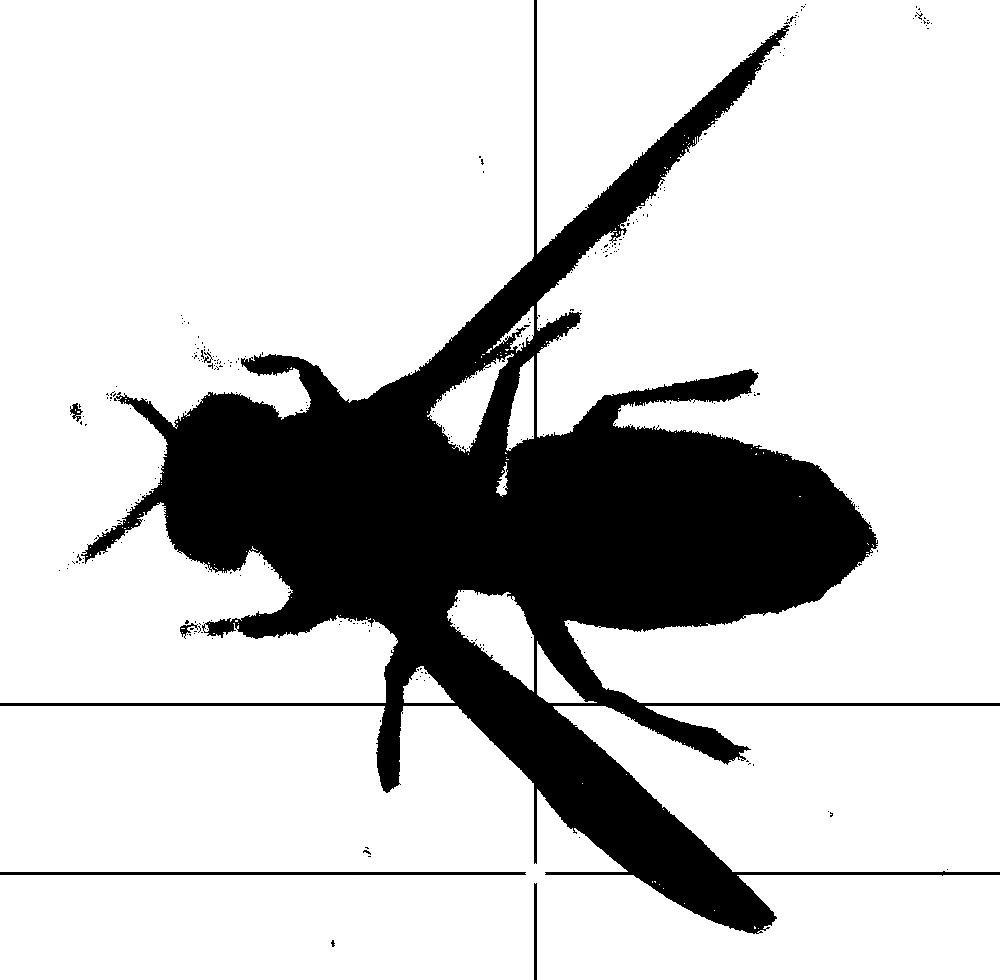
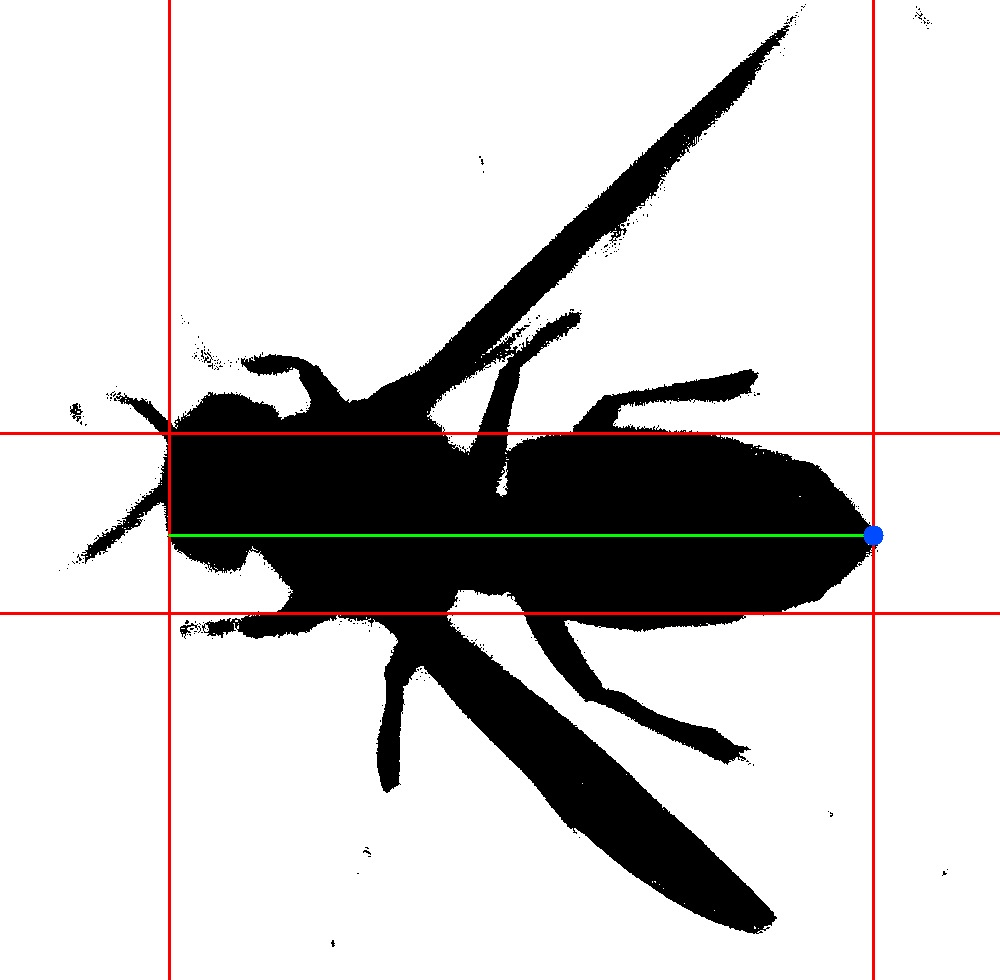
ResultCutOut fonctionnel et eventuelle resultats(bounding lines et longeur du frelon) affiches sur les images

Changed region(s): [[0.0, 0.0, 1.0, 1.0]]

diff --git a/Caracteristics/HornetLength.java b/Caracteristics/HornetLength.java
@@ -21,7 +21,7 @@ public class HornetLength {
     }
 
 
-    public static int[] boundingLines(Mat arrayImage) {
+   /* public static int[] boundingLines(Mat arrayImage) {
         // Récupération du nombre de lignes et de colonnes de la matrice de l'image binaire du frelon
         int numberOfLines = arrayImage.rows();
         int numberOfColumns = arrayImage.cols();
@@ -79,7 +79,56 @@ public class HornetLength {
 
         // Return the values
         return new int[]{upperLine, lowerLine, leftLine, upperLine, lowerLine, leftLine};
-    }
+    }*/
+   public static int[] boundingLines(Mat arrayImage) {
+       // Récupération du nombre de lignes et de colonnes de la matrice de l'image binaire du frelon
+       int numberOfLines = arrayImage.rows();
+       int numberOfColumns = arrayImage.cols();
+
+       System.out.println("Number of lines: " + numberOfLines);
+
+       // Recherche le la ligne inférieure de la zone d'analyse
+       int counter = numberOfLines;
+       int pixelCount = 0;
+
+       double horizontalNumber = numberOfColumns * 0.4;
+       while (pixelCount < horizontalNumber && counter > 0) {
+           pixelCount = zeroPixels(arrayImage.row(counter - 1));
+           counter--;
+       }
+
+       int lowerLine = counter;
+
+       // Recherche le la ligne supérieure de la zone d'analyse
+       counter = 0;
+       pixelCount = 0;
+
+       while (pixelCount < horizontalNumber && counter < numberOfLines) {
+           pixelCount = zeroPixels(arrayImage.row(counter));
+           counter++;
+       }
+
+       int upperLine = counter;
+
+       // Recherche de la colonne gauche de la zone d'analyse
+       counter = 0;
+       pixelCount = 0;
+
+       double verticalNumber = numberOfLines * 0.1;
+       while (pixelCount < verticalNumber && counter < numberOfColumns) {
+           pixelCount = zeroPixels(arrayImage.col(counter));
+           counter++;
+       }
+
+       int leftLine = counter;
+
+       System.out.println("Upper line: " + upperLine);
+       System.out.println("Lower line: " + lowerLine);
+       System.out.println("Left line: " + leftLine);
+
+       // Return the values
+       return new int[]{upperLine, lowerLine, leftLine};
+   }
 
 
     public static int[] calculer_HornetLength(Mat picture) {
@@ -143,43 +192,61 @@ public class HornetLength {
 
         return new int[]{lengthValue, stingCoordinates[0], stingCoordinates[1]};
     }
-    public static int resultPlot(Mat picture, int lowerLine, int upperLine, int leftLine, int indexMax, int pixelCount,
-                                 int numberOfLines, int numberOfColumns, String pictureFile) {
+
+    public static int resultPlot(Mat picture, String imagePath) {
+        // Assuming you have an input image (replace "your_image_path" with the actual path)
+        Mat inputImage = Imgcodecs.imread(imagePath);
+
+        // calcluler les bounding lines
+        int[] lines = boundingLines(inputImage);
+        int upperLine = lines[0];
+        int lowerLine = lines[1];
+        int leftLine = lines[2];
+
+        // Calculer la longeur de frelon
+        int[] lengthInfo = calculer_HornetLength(inputImage);
+        int lengthValue = lengthInfo[0];
+        int stingX = lengthInfo[1];
+        int stingY = lengthInfo[2];
+
+        int numberOfLines = picture.rows();
+        int numberOfColumns = picture.cols();
 
         // Convertir l'image en niveaux de gris
-       // Imgproc.cvtColor(picture, picture, Imgproc.COLOR_BGR2GRAY);
+        // Imgproc.cvtColor(picture, picture, Imgproc.COLOR_BGR2GRAY);
+        Mat colorPicture = new Mat();
         // Convertir l'image en niveaux de gris si elle n'est pas déjà en niveaux de gris
-        if (picture.channels() > 1) {
-            Imgproc.cvtColor(picture, picture, Imgproc.COLOR_BGR2GRAY);
-        }
+        // if (picture.channels() > 1) {
+        Imgproc.cvtColor(picture, colorPicture, Imgproc.COLOR_GRAY2BGR);
+        // }
 
         // Ligne inférieure
-        Imgproc.line(picture, new Point(0, lowerLine), new Point(numberOfColumns, lowerLine), new Scalar(0, 0, 255), 2);
+        Imgproc.line(colorPicture, new Point(0, lowerLine), new Point(numberOfColumns - 1, lowerLine), new Scalar(0, 0, 255), 2);
 
         // Ligne supérieure
-        Imgproc.line(picture, new Point(0, upperLine), new Point(numberOfColumns, upperLine), new Scalar(0, 0, 255), 2);
+        Imgproc.line(colorPicture, new Point(0, upperLine), new Point(numberOfColumns - 1, upperLine), new Scalar(0, 0, 255), 2);
 
         // Ligne gauche
-        Imgproc.line(picture, new Point(leftLine, 0), new Point(leftLine, numberOfLines), new Scalar(0, 0, 255), 2);
+        Imgproc.line(colorPicture, new Point(leftLine, 0), new Point(leftLine, numberOfLines - 1), new Scalar(0, 0, 255), 2);
 
         // Ligne droite
-        int positionning = (int) (leftLine + pixelCount);
-        Imgproc.line(picture, new Point(positionning, 0), new Point(positionning, numberOfLines), new Scalar(0, 0, 255), 2);
+        int positionX = stingX;  // Assuming the length line starts from the sting coordinates
+        Imgproc.line(colorPicture, new Point(positionX, 0), new Point(positionX, numberOfLines - 1), new Scalar(0, 0, 255), 2);
 
         // Ligne de longueur maximale
-        Imgproc.line(picture, new Point(leftLine, indexMax + upperLine), new Point(positionning, indexMax + upperLine),
+        Imgproc.line(colorPicture, new Point(leftLine, stingY), new Point(stingX, stingY),
                 new Scalar(0, 255, 0), 2);
 
         // Extrémité de la ligne de longueur maximale
-        Imgproc.circle(picture, new Point(positionning, indexMax + upperLine), 10, new Scalar(255, 75, 0), -1);
+        Imgproc.circle(colorPicture, new Point(stingX, stingY), 10, new Scalar(255, 75, 0), -1);
 
-        HighGui.imshow("Hornet length", picture);
+        HighGui.imshow("Hornet length", colorPicture);
 
         // Écriture de l'image avec les lignes de recherche dessinées pour démonstration
-        String outputfile = pictureFile.substring(0, pictureFile.length() - 4) + "_length.jpg";
+        String outputfile = imagePath.substring(0, imagePath.length() - 4) + "_length.jpg";
         outputfile = outputfile.replace("Footage/", "Footage/");
         System.out.println(outputfile);
-        Imgcodecs.imwrite(outputfile, picture);
+        Imgcodecs.imwrite(outputfile, colorPicture);
         HighGui.waitKey(0);
 
         return 0;
